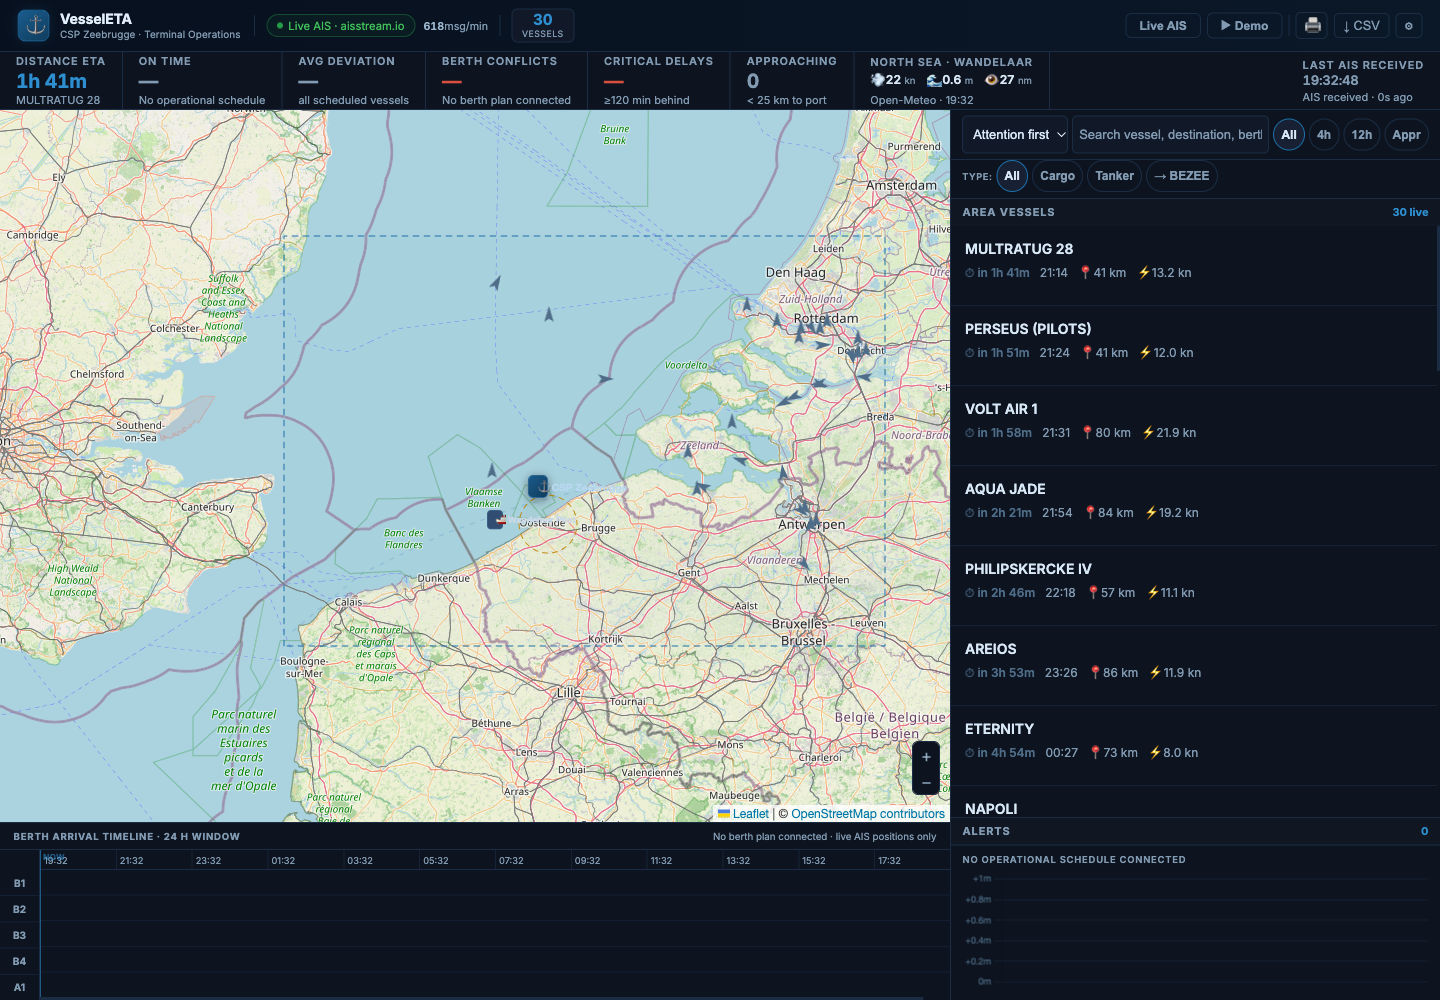
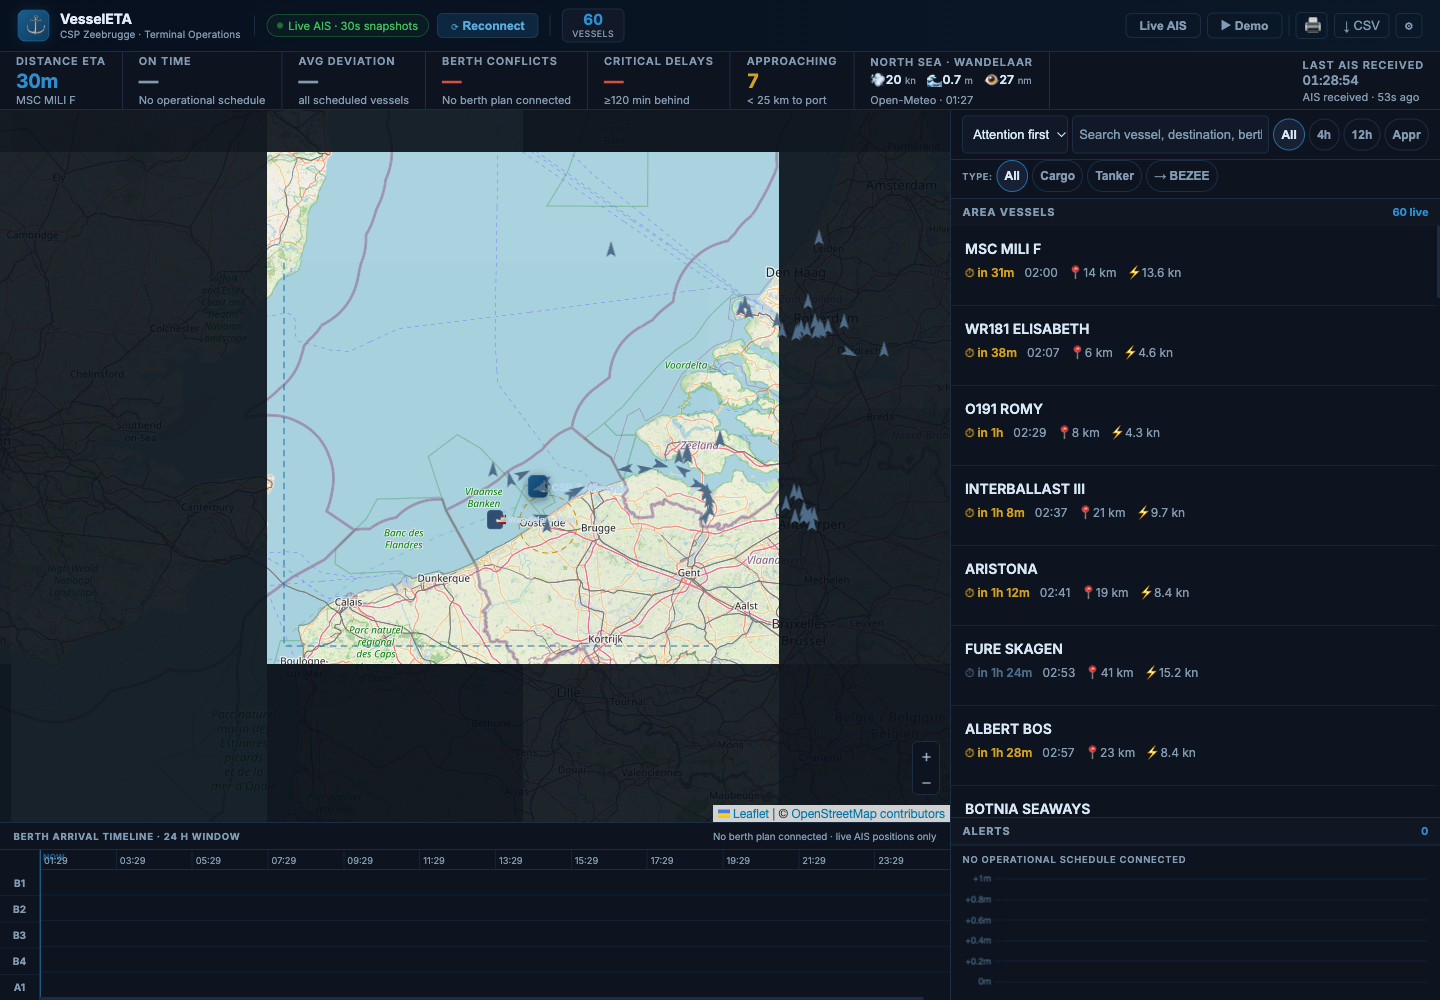
Verify refreshed live snapshots and fix simulation action

diff --git a/index.html b/index.html
@@ -123,6 +123,7 @@
       flex-direction:column;gap:.75rem;pointer-events:none;
       transition:opacity .35s;
     }
+    .connecting-overlay button{pointer-events:auto;}
     .connecting-overlay.hidden{opacity:0;pointer-events:none;display:none;}
     .co-ring{width:36px;height:36px;border:3px solid var(--border);border-top-color:var(--accent-hi);border-radius:50%;animation:spin 1s linear infinite;}
     @keyframes spin{to{transform:rotate(360deg)}}

diff --git a/docs/VERIFICATION.md b/docs/VERIFICATION.md
@@ -92,20 +92,23 @@ The secret remains in the same Production project. Tests verify socket cleanup,
 shared collection, cache expiry and separation from simulated planning.
 
 
-## Latest external reception check — 25 November 2026
+## Latest external reception check — passed, 25 November 2026
 
-The snapshot endpoint returned HTTP 503 with `handshake_timeout`. An independent
-WebSocket opening attempt from the local computer also timed out without
-sending any key, and an HTTPS request to the official stream endpoint received
-no response within 15 seconds. This failure occurs before subscription or key
-validation. It is an external reachability limitation at the time of this check;
-it does not establish a service-wide outage or a rejected replacement key.
+The public snapshot endpoint returned HTTP 200 with 53 real messages from 53
+vessels, with a snapshot age of 16 seconds. Chromium subsequently displayed 60
+relevant live vessels. Automatic refresh was verified by observing the snapshot
+change from `2026-11-25T00:28:54.813Z` to `2026-11-25T00:29:48.009Z`, with the latest
+AIS age at zero seconds. Desktop and mobile live screenshots were refreshed.
 
-The new credential remains configured in Vercel Production. Earlier successful
-live reception and the 24 November live screenshots are historical evidence;
-continuous live availability is **not** claimed. The site reports unavailability
-and retries automatically, and its explicit simulation remains usable.
-The final snapshot implementation has been verified against a local test provider;
-real snapshot reception is still pending upstream reachability.
+Earlier checks returned `handshake_timeout`. An independent local WebSocket
+opening attempt without credentials and an HTTPS request to the stream address
+also timed out. These failures preceded authentication; a global provider outage
+was not established. Reception subsequently recovered. The current implementation
+shows outages, rejects snapshots older than 90 seconds and retries automatically.
+
+Nine Node checks and eight desktop/mobile browser checks passed, including
+shared collection, upstream cleanup, stale-data rejection, recovery and the
+explicit simulation button. No production terminal schedule is connected.
+Public coverage and continuous provider availability are not guaranteed.
 
 [Machine-readable current status](verification/live-ais-2026-11-25.json).

diff --git a/README.md b/README.md
@@ -4,14 +4,14 @@
 
 **[Open live AIS](https://phlppgdfry.github.io/vessel-eta-tracker/)** · **[Open simulation](https://phlppgdfry.github.io/vessel-eta-tracker/?mode=demo)** · [Walkthrough](docs/PORTFOLIO.md) · [Verification](docs/VERIFICATION.md)
 
-Live AIS snapshots around Zeebrugge refresh every 30 seconds through a server-side relay.
-Visitors need no key. At the latest 25 November check, the upstream stream
-connection timed out before authentication; the UI reports that state and retries.
-See [current verification](docs/VERIFICATION.md) for the remaining external limitation. The optional simulation demonstrates arrival deviations,
+Live AIS snapshots around Zeebrugge arrive through a server-side relay; the
+dashboard polls every 30 seconds between responses and shows the data age.
+Visitors need no key. Public reception and automatic refresh were verified on
+25 November 2026. The optional simulation demonstrates arrival deviations,
 berth conflicts and handover planning with eight clearly labelled sample vessels.
 This is an independent portfolio project, not an endorsed CSP system.
 
-Live reception captured on 24 November 2026:
+Live snapshot reception captured on 25 November 2026:
 
 ![Actual live AIS dashboard](docs/screenshots/live-desktop.png)
 
